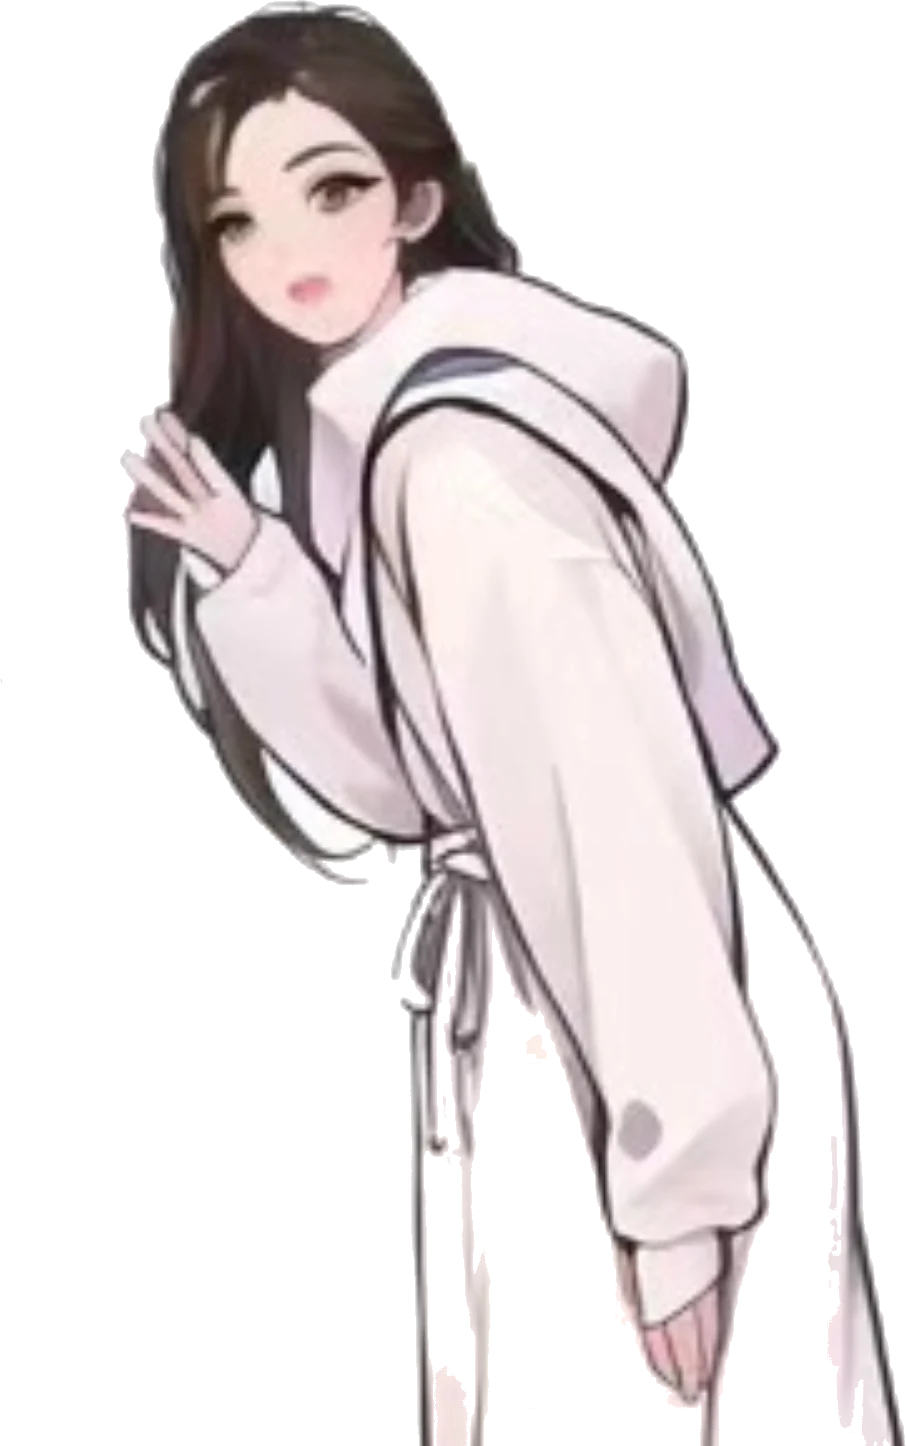
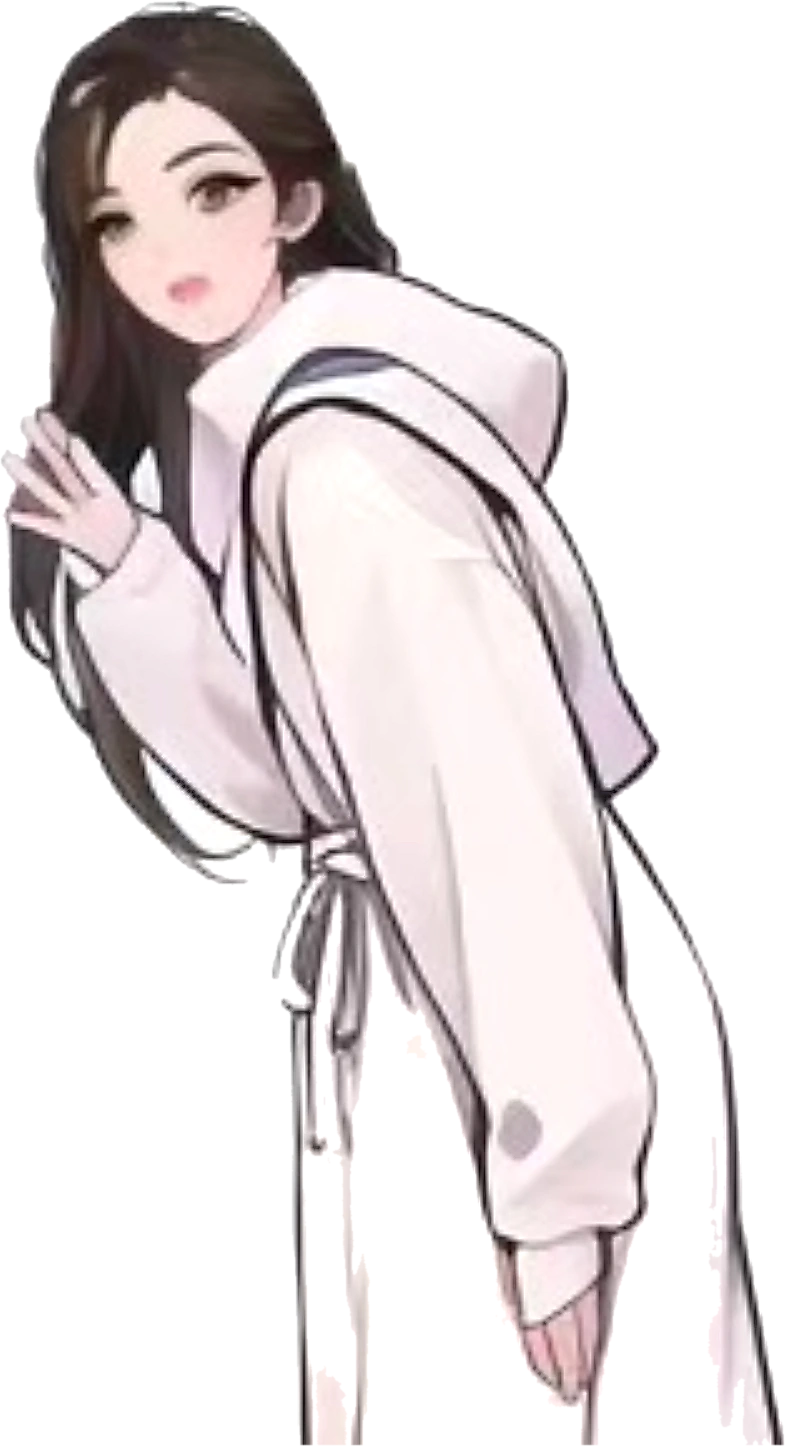
Sharpen portrait and feature Coup under Other

diff --git a/site/index.html b/site/index.html
@@ -68,7 +68,7 @@
                 <img
                   class="portrait-img"
                   src="images/serena.webp"
-                  width="906"
+                  width="785"
                   height="1446"
                   alt="An illustration of Serena: long dark hair and a soft pink hooded coat, leaning in and waving."
                   draggable="false"
@@ -191,26 +191,21 @@
             </svg>
           </h2>
 
-          <h3 class="sub"><span class="num">4.1</span>Things I love</h3>
           <ol class="entries">
             <li class="entry">
               <a
                 class="entry-link"
-                href="https://www.youtube.com/watch?v=SKk44nKF9_8"
+                href="https://boardgamegeek.com/boardgame/131357/coup"
                 target="_blank"
                 rel="noopener"
               >
-                <span class="entry-when">Video</span>
+                <span class="entry-when">Game</span>
                 <span class="entry-body">
-                  <span class="entry-title">A world inside a browser <span class="arrow" aria-hidden="true">↗</span></span>
-                  <span class="entry-note">A whole world, built inside a web page.</span>
+                  <span class="entry-title">Coup <span class="arrow" aria-hidden="true">↗</span></span>
+                  <span class="entry-note">My favorite bluffing card game. Ask me for a round.</span>
                 </span>
               </a>
             </li>
-          </ol>
-
-          <h3 class="sub"><span class="num">4.2</span>Elsewhere</h3>
-          <ol class="entries">
             <li class="entry">
               <a class="entry-link" href="https://github.com/serena2z" target="_blank" rel="noopener">
                 <span class="entry-when">Code</span>
